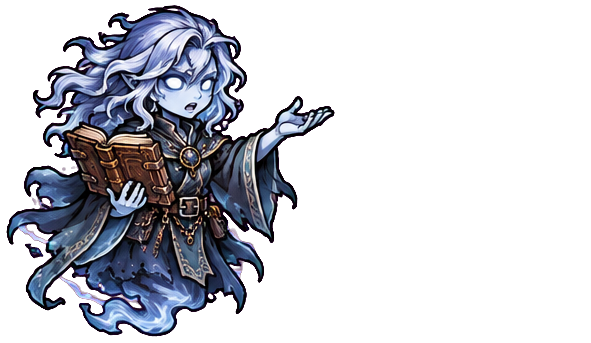
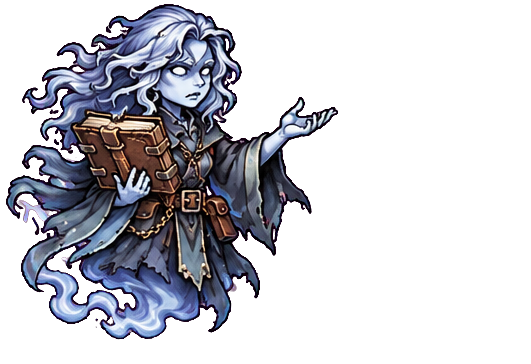
v0.7.1.0776 광산 NPC 그림을 광부 비율로 교체 · NPC별 키 조정
Claude-Session: https://claude.ai/code/session_01AwLthSKStJ6TZafJZN1U3z

diff --git a/CLAUDE.md b/CLAUDE.md
@@ -1,5 +1,5 @@
 # 개발 규칙
 - 게임 밸런스/수치(확률, 데미지, 비용, 쿨타임, 드랍 등)를 바꿀 때마다 `patchnotes.txt` 맨 위에 해당 버전 항목을 추가하고 바뀐 수치를 간략히 적는다. 표기는 "변경: 120% → 90%", "상향: 3 → 5", "하향: …", "수정: …", "추가: …"처럼 쓴다("이전 → 이후:" 문구는 쓰지 않는다. 필요하면 "이전: A → 이후: B" 형태는 가능). (인게임 메뉴·설정·시작화면 버전 글자에서 이 파일을 보여줌)
-- 버전은 `0.7.1.NNNN` (빌드 번호 = 커밋 수 − 70, 0.4.0.0124 다음부터 0.4.1.0125 → 0.4.2.0128 → 0.4.2.0129 → 0.4.2.0130 → 0.4.2.0131 → 0.4.2.0132 → 0.4.2.0133 → 0.4.2.0134 → 0.4.2.0135 → 0.4.2.0136 → 0.4.2.0137 → 0.4.2.0138 → 0.4.2.0139 → 0.4.2.0140 → 0.4.2.0141 → 0.4.2.0142 → 0.4.2.0143 → 0.4.2.0144 → 0.4.2.0145 → 0.4.2.0146 → 0.4.2.0147 → 0.4.2.0148 → 0.4.2.0149 → 0.4.3.0150 → 0.4.3.0151 → 0.4.3.0152 → 0.4.3.0153 → 0.4.3.0154 → 0.4.3.0155 → 0.4.3.0156 → 0.4.3.0157 → 0.4.3.0158 → 0.4.3.0159 → 0.4.3.0160 → 0.4.3.0161 → 0.4.3.0162 → 0.4.3.0163 → 0.4.3.0164 → 0.4.3.0165 → 0.4.3.0166 → 0.4.3.0167 → 0.4.4.0168 → 0.4.4.0169 → 0.4.4.0170 → 0.4.4.0171 → 0.4.4.0172 → 0.4.4.0173 → 0.4.5.0174 → 0.4.5.0175 → 0.4.5.0176 → 0.4.5.0177 → 0.4.5.0178 → 0.4.5.0179 → 0.4.5.0180 → 0.4.6.0181 → 0.4.6.0182 → 0.4.6.0183 → 0.4.6.0184 → 0.4.6.0185 → 0.4.6.0186 → 0.4.6.0187 → 0.4.6.0188 → 0.4.6.0189 → 0.4.6.0190 → 0.4.6.0191 → 0.4.6.0192 → 0.4.6.0193 → 0.4.6.0194 → 0.4.6.0195 → 0.4.6.0196 → 0.4.7.0197 → 0.4.7.0198 → 0.4.7.0199 → 0.4.7.0200 → 0.4.7.0201 → 0.4.7.0202 → 0.4.7.0203 → 0.4.7.0204 → 0.4.7.0205 → 0.4.7.0206 → 0.4.7.0207 → 0.4.7.0208 → 0.5.0.0209 → 0.5.0.0210 → 0.5.0.0211 → 0.5.0.0212 → 0.5.0.0213 → 0.5.0.0214 → 0.5.0.0215 → 0.5.0.0216 → 0.5.0.0217 → 0.5.0.0218 → 0.5.0.0219 → 0.5.0.0220 → 0.5.0.0221 → 0.5.0.0222 → 0.5.0.0223 → 0.5.0.0224 → 0.5.0.0225 → 0.5.0.0226 → 0.5.0.0227 → 0.5.0.0228 → 0.5.0.0229 → 0.5.0.0230 → 0.5.0.0231 → 0.5.0.0232 → 0.5.0.0233 → 0.5.0.0234 → 0.5.0.0235 → 0.5.0.0236 → 0.5.0.0237 → 0.5.0.0238 → 0.5.0.0239 → 0.5.0.0240 → 0.5.0.0241 → 0.6.0.0241 → 0.6.0.0242 → 0.6.0.0243 → 0.6.0.0244 → 0.6.0.0245 → 0.6.0.0246 → 0.6.0.0247 → 0.6.0.0248 → 0.6.0.0249 → 0.6.0.0250 → 0.6.0.0251 → 0.6.0.0252 → 0.6.0.0253 → 0.6.0.0254 → 0.6.0.0255 → 0.6.0.0256 → 0.6.0.0257 → 0.6.0.0258 → 0.6.0.0259 → 0.6.0.0260 → 0.6.0.0261 → 0.6.0.0262 → 0.6.0.0263 → 0.6.0.0264 → 0.6.0.0265 → 0.6.0.0266 → 0.6.0.0267 → 0.6.0.0268 → 0.6.0.0269 → 0.6.0.0270 → 0.6.0.0271 → 0.6.0.0272 → 0.6.0.0273 → 0.6.0.0274 → 0.6.0.0275 → 0.6.0.0276 → 0.6.0.0277 → 0.6.0.0278 → 0.6.0.0279 → 0.6.0.0280 → 0.6.0.0281 → 0.6.0.0282 → 0.6.0.0283 → 0.6.0.0284 → 0.6.0.0285 → 0.6.0.0286 → 0.6.0.0287 → 0.6.0.0288 → 0.6.0.0289 → 0.6.0.0290 → 0.6.0.0291 → 0.6.0.0292 → 0.6.0.0293 → 0.6.0.0294 → 0.6.0.0295 → 0.6.0.0296 → 0.6.0.0297 → 0.6.0.0298 → 0.6.0.0299 → 0.6.0.0300 → 0.6.0.0301 → 0.6.0.0302 → 0.6.0.0303 → 0.6.0.0304 → 0.6.0.0305 → 0.6.0.0306 → 0.6.0.0307 → 0.6.0.0308 → 0.6.0.0309 → 0.6.0.0310 → 0.6.0.0311 → 0.6.0.0312 → 0.6.0.0313 → 0.6.0.0314 → 0.6.0.0315 → 0.6.0.0316 → 0.6.0.0317 → 0.6.0.0318 → 0.6.0.0319 → 0.6.0.0320 → 0.6.0.0321 → 0.6.0.0322 → 0.6.0.0323 → 0.6.0.0324 → 0.6.0.0325 → 0.6.0.0326 → 0.6.0.0327 → 0.6.0.0328 → 0.6.0.0329 → 0.6.0.0330 → 0.6.0.0331 → 0.6.0.0332 → 0.6.0.0333 → 0.6.0.0334 → 0.6.0.0335 → 0.6.0.0336 → 0.6.0.0337 → 0.6.0.0338 → 0.6.0.0339 → 0.6.0.0340 → 0.6.1.0341 → 0.6.1.0342 → 0.6.1.0343 → 0.6.1.0344 → 0.6.1.0345 → 0.6.1.0346 → 0.6.1.0347 → 0.6.1.0348 → 0.6.1.0349 → 0.6.1.0350 → 0.6.1.0351 → 0.6.1.0352 → 0.6.1.0353 → 0.6.1.0354 → 0.6.1.0355 → 0.6.1.0356 → 0.6.1.0357 → 0.6.1.0358 → 0.6.1.0359 → 0.6.1.0360 → 0.6.1.0361 → 0.6.1.0362 → 0.6.1.0363 → 0.6.1.0364 → 0.6.1.0365 → 0.6.1.0366 → 0.6.1.0367 → 0.6.1.0368 → 0.6.1.0369 → 0.6.1.0370 → 0.6.1.0371 → 0.6.1.0372 → 0.6.1.0373 → 0.6.1.0374 → 0.6.1.0375 → 0.6.1.0376 → 0.6.1.0377 → 0.6.1.0378 → 0.6.1.0379 → 0.6.1.0380 → 0.6.1.0381 → 0.6.1.0382 → 0.6.1.0383 → 0.6.1.0384 → 0.6.1.0385 → 0.6.1.0386 → 0.6.1.0387 → 0.6.1.0388 → 0.6.1.0389 → 0.6.2.0390 → 0.6.2.0391 → 0.6.2.0392 → 0.6.2.0393 → 0.6.2.0394 → 0.6.2.0395 → 0.6.2.0396 → 0.6.2.0397 → 0.6.2.0398 → 0.6.2.0399 → 0.6.2.0400 → 0.6.2.0401 → 0.6.2.0402 → 0.6.2.0403 → 0.6.2.0404 → 0.6.2.0405 → 0.6.2.0406 → 0.6.2.0407 → 0.6.2.0408 → 0.6.2.0409 → 0.6.2.0410 → 0.6.2.0411 → 0.6.2.0412 → 0.6.2.0413 → 0.6.2.0414 → 0.6.2.0415 → 0.6.2.0416 → 0.6.2.0417 → 0.6.2.0418 → 0.6.3.0419 → 0.6.3.0420 → 0.6.3.0421 → 0.6.3.0422 → 0.6.3.0423 → 0.6.3.0424 → 0.6.3.0425 → 0.6.3.0426 → 0.6.3.0427 → 0.6.3.0428 → 0.6.3.0429 → 0.6.3.0430 → 0.6.3.0431 → 0.6.3.0432 → 0.6.3.0433 → 0.6.3.0434 → 0.6.3.0435 → 0.6.3.0436 → 0.6.3.0437 → 0.6.3.0438 → 0.6.3.0439 → 0.6.3.0440 → 0.6.3.0441 → 0.6.3.0442 → 0.6.3.0443 → 0.6.3.0444 → 0.6.3.0445 → 0.6.3.0446 → 0.6.3.0447 → 0.6.3.0448 → 0.6.3.0449 → 0.6.3.0450 → 0.6.3.0451 → 0.6.3.0452 → 0.6.3.0453 → 0.6.3.0454 → 0.6.3.0455 → 0.6.3.0456 → 0.6.3.0457 → 0.6.3.0458 → 0.6.3.0459 → 0.6.4.0460 → 0.6.4.0461 → 0.6.4.0462 → 0.6.4.0463 → 0.6.4.0464 → 0.6.4.0465 → 0.6.4.0466 → 0.6.4.0467 → 0.6.4.0468 → 0.6.4.0469 → 0.6.4.0470 → 0.6.4.0471 → 0.6.4.0472 → 0.6.4.0473 → 0.6.4.0474 → 0.6.4.0475 → 0.6.4.0476 → 0.6.4.0477 → 0.6.4.0478 → 0.6.4.0479 → 0.6.4.0480 → 0.6.4.0481 → 0.6.4.0482 → 0.6.4.0483 → 0.6.4.0484 → 0.6.4.0485 → 0.6.4.0486 → 0.6.4.0487 → 0.6.4.0488 → 0.6.4.0489 → 0.6.4.0490 → 0.6.4.0491 → 0.6.4.0492 → 0.6.4.0493 → 0.6.4.0494 → 0.6.4.0495 → 0.6.4.0496 → 0.6.4.0497 → 0.6.4.0498 → 0.6.4.0499 → 0.6.4.0500 → 0.6.4.0501 → 0.6.4.0502 → 0.6.4.0503 → 0.6.4.0504 → 0.6.4.0505 → 0.6.5.0506 → 0.6.5.0507 → 0.6.5.0508 → 0.6.5.0509 → 0.6.5.0510 → 0.6.5.0511 → 0.6.5.0512 → 0.6.5.0513 → 0.6.5.0514 → 0.6.5.0515 → 0.6.5.0516 → 0.6.5.0517 → 0.6.5.0518 → 0.6.5.0519 → 0.6.5.0520 → 0.6.5.0521 → 0.6.5.0522 → 0.6.5.0523 → 0.6.5.0524 → 0.6.5.0525 → 0.6.5.0526 → 0.6.5.0527 → 0.6.5.0528 → 0.6.5.0529 → 0.6.5.0530 → 0.6.5.0531 → 0.6.5.0532 → 0.6.5.0533 → 0.6.5.0534 → 0.6.5.0535 → 0.6.5.0536 → 0.6.5.0537 → 0.6.5.0538 → 0.6.5.0539 → 0.6.5.0540 → 0.6.5.0541 → 0.6.5.0542 → 0.6.5.0543 → 0.6.5.0544 → 0.6.5.0545 → 0.6.5.0546 → 0.6.5.0547 → 0.6.5.0548 → 0.6.5.0549 → 0.6.5.0550 → 0.6.5.0551 → 0.6.5.0552 → 0.6.5.0553 → 0.6.5.0554 → 0.6.5.0555 → 0.6.5.0556 → 0.6.5.0557 → 0.6.5.0558 → 0.6.5.0559 → 0.6.5.0560 → 0.6.5.0561 → 0.6.5.0562 → 0.6.5.0563 → 0.6.5.0564 → 0.6.5.0565 → 0.6.5.0566 → 0.6.5.0567 → 0.6.5.0568 → 0.6.5.0569 → 0.6.5.0570 → 0.6.5.0571 → 0.6.5.0572 → 0.6.5.0573 → 0.6.5.0574 → 0.6.5.0575 → 0.6.5.0576 → 0.6.5.0577 → 0.6.5.0578 → 0.6.5.0579 → 0.6.5.0580 → 0.6.5.0581 → 0.6.5.0582 → 0.6.5.0583 → 0.6.5.0584 → 0.6.5.0585 → 0.6.5.0586 → 0.6.5.0587 → 0.6.5.0588 → 0.6.5.0589 → 0.6.5.0590 → 0.6.5.0591 → 0.6.5.0592 → 0.6.5.0593 → 0.6.5.0594 → 0.6.5.0595 → 0.6.5.0596 → 0.6.5.0597 → 0.6.5.0598 → 0.6.5.0599 → 0.6.5.0600 → 0.6.5.0601 → 0.6.5.0602 → 0.6.5.0603 → 0.6.5.0604 → 0.6.5.0605 → 0.6.5.0606 → 0.6.5.0607 → 0.6.5.0608 → 0.6.5.0609 → 0.6.5.0610 → 0.6.5.0611 → 0.6.5.0612 → 0.6.5.0613 → 0.6.5.0614 → 0.6.5.0615 → 0.6.5.0616 → 0.6.5.0617 → 0.6.5.0618 → 0.6.5.0619 → 0.6.5.0620 → 0.6.5.0621 → 0.6.5.0622 → 0.6.5.0623 → 0.6.5.0624 → 0.6.5.0625 → 0.6.5.0626 → 0.6.5.0627 → 0.6.5.0628 → 0.6.5.0629 → 0.6.5.0630 → 0.6.5.0631 → 0.6.5.0632 → 0.6.5.0633 → 0.6.5.0634 → 0.6.5.0635 → 0.6.5.0636 → 0.6.5.0637 → 0.6.5.0638 → 0.6.5.0639 → 0.6.5.0640 → 0.6.5.0641 → 0.6.5.0642 → 0.6.5.0643 → 0.6.5.0644 → 0.6.5.0645 → 0.6.5.0646 → 0.6.5.0647 → 0.6.5.0648 → 0.6.5.0649 → 0.6.5.0650 → 0.6.5.0651 → 0.6.5.0652 → 0.6.5.0653 → 0.6.5.0654 → 0.6.5.0655 → 0.6.5.0656 → 0.6.5.0657 → 0.6.5.0658 → 0.6.5.0659 → 0.6.5.0660 → 0.6.5.0661 → 0.6.5.0662 → 0.6.5.0663 → 0.6.5.0664 → 0.7.1.0665 → 0.7.1.0666 → 0.7.1.0667 → 0.7.1.0668 → 0.7.1.0669 → 0.7.1.0670 → 0.7.1.0671 → 0.7.1.0672 → 0.7.1.0673 → 0.7.1.0674 → 0.7.1.0675 → 0.7.1.0676 → 0.7.1.0677 → 0.7.1.0678 → 0.7.1.0679 → 0.7.1.0680 → 0.7.1.0681 → 0.7.1.0682 → 0.7.1.0683 → 0.7.1.0684 → 0.7.1.0685 → 0.7.1.0686 → 0.7.1.0687 → 0.7.1.0688 → 0.7.1.0689 → 0.7.1.0690 → 0.7.1.0691 → 0.7.1.0692 → 0.7.1.0693 → 0.7.1.0694 → 0.7.1.0695 → 0.7.1.0696 → 0.7.1.0697 → 0.7.1.0698 → 0.7.1.0699 → 0.7.1.0700 → 0.7.1.0701 → 0.7.1.0702 → 0.7.1.0703 → 0.7.1.0704 → 0.7.1.0705 → 0.7.1.0706 → 0.7.1.0707 → 0.7.1.0708 → 0.7.1.0709 → 0.7.1.0710 → 0.7.1.0711 → 0.7.1.0712 → 0.7.1.0713 → 0.7.1.0714 → 0.7.1.0715 → 0.7.1.0716 → 0.7.1.0717 → 0.7.1.0718 → 0.7.1.0719 → 0.7.1.0720 → 0.7.1.0721 → 0.7.1.0722 → 0.7.1.0723 → 0.7.1.0724 → 0.7.1.0725 → 0.7.1.0726 → 0.7.1.0727 → 0.7.1.0728 → 0.7.1.0729 → 0.7.1.0730 → 0.7.1.0731 → 0.7.1.0732 → 0.7.1.0733 → 0.7.1.0734 → 0.7.1.0735 → 0.7.1.0736 → 0.7.1.0737 → 0.7.1.0738 → 0.7.1.0739 → 0.7.1.0740 → 0.7.1.0741 → 0.7.1.0742 → 0.7.1.0743 → 0.7.1.0744 → 0.7.1.0745 → 0.7.1.0746 → 0.7.1.0747 → 0.7.1.0748 → 0.7.1.0749 → 0.7.1.0750 → 0.7.1.0751 → 0.7.1.0752 → 0.7.1.0753 → 0.7.1.0754 → 0.7.1.0755 → 0.7.1.0756 → 0.7.1.0757 → 0.7.1.0758 → 0.7.1.0759 → 0.7.1.0760 → 0.7.1.0761 → 0.7.1.0762 → 0.7.1.0763 → 0.7.1.0764 → 0.7.1.0767 → 0.7.1.0768 → 0.7.1.0769 → 0.7.1.0770 → 0.7.1.0771 → 0.7.1.0772 → 0.7.1.0773 → 0.7.1.0774 → 0.7.1.0775로 이어서 증가). 커밋 때 patchnotes.txt의 버전 번호도 맞춘다.
+- 버전은 `0.7.1.NNNN` (빌드 번호 = 커밋 수 − 70, 0.4.0.0124 다음부터 0.4.1.0125 → 0.4.2.0128 → 0.4.2.0129 → 0.4.2.0130 → 0.4.2.0131 → 0.4.2.0132 → 0.4.2.0133 → 0.4.2.0134 → 0.4.2.0135 → 0.4.2.0136 → 0.4.2.0137 → 0.4.2.0138 → 0.4.2.0139 → 0.4.2.0140 → 0.4.2.0141 → 0.4.2.0142 → 0.4.2.0143 → 0.4.2.0144 → 0.4.2.0145 → 0.4.2.0146 → 0.4.2.0147 → 0.4.2.0148 → 0.4.2.0149 → 0.4.3.0150 → 0.4.3.0151 → 0.4.3.0152 → 0.4.3.0153 → 0.4.3.0154 → 0.4.3.0155 → 0.4.3.0156 → 0.4.3.0157 → 0.4.3.0158 → 0.4.3.0159 → 0.4.3.0160 → 0.4.3.0161 → 0.4.3.0162 → 0.4.3.0163 → 0.4.3.0164 → 0.4.3.0165 → 0.4.3.0166 → 0.4.3.0167 → 0.4.4.0168 → 0.4.4.0169 → 0.4.4.0170 → 0.4.4.0171 → 0.4.4.0172 → 0.4.4.0173 → 0.4.5.0174 → 0.4.5.0175 → 0.4.5.0176 → 0.4.5.0177 → 0.4.5.0178 → 0.4.5.0179 → 0.4.5.0180 → 0.4.6.0181 → 0.4.6.0182 → 0.4.6.0183 → 0.4.6.0184 → 0.4.6.0185 → 0.4.6.0186 → 0.4.6.0187 → 0.4.6.0188 → 0.4.6.0189 → 0.4.6.0190 → 0.4.6.0191 → 0.4.6.0192 → 0.4.6.0193 → 0.4.6.0194 → 0.4.6.0195 → 0.4.6.0196 → 0.4.7.0197 → 0.4.7.0198 → 0.4.7.0199 → 0.4.7.0200 → 0.4.7.0201 → 0.4.7.0202 → 0.4.7.0203 → 0.4.7.0204 → 0.4.7.0205 → 0.4.7.0206 → 0.4.7.0207 → 0.4.7.0208 → 0.5.0.0209 → 0.5.0.0210 → 0.5.0.0211 → 0.5.0.0212 → 0.5.0.0213 → 0.5.0.0214 → 0.5.0.0215 → 0.5.0.0216 → 0.5.0.0217 → 0.5.0.0218 → 0.5.0.0219 → 0.5.0.0220 → 0.5.0.0221 → 0.5.0.0222 → 0.5.0.0223 → 0.5.0.0224 → 0.5.0.0225 → 0.5.0.0226 → 0.5.0.0227 → 0.5.0.0228 → 0.5.0.0229 → 0.5.0.0230 → 0.5.0.0231 → 0.5.0.0232 → 0.5.0.0233 → 0.5.0.0234 → 0.5.0.0235 → 0.5.0.0236 → 0.5.0.0237 → 0.5.0.0238 → 0.5.0.0239 → 0.5.0.0240 → 0.5.0.0241 → 0.6.0.0241 → 0.6.0.0242 → 0.6.0.0243 → 0.6.0.0244 → 0.6.0.0245 → 0.6.0.0246 → 0.6.0.0247 → 0.6.0.0248 → 0.6.0.0249 → 0.6.0.0250 → 0.6.0.0251 → 0.6.0.0252 → 0.6.0.0253 → 0.6.0.0254 → 0.6.0.0255 → 0.6.0.0256 → 0.6.0.0257 → 0.6.0.0258 → 0.6.0.0259 → 0.6.0.0260 → 0.6.0.0261 → 0.6.0.0262 → 0.6.0.0263 → 0.6.0.0264 → 0.6.0.0265 → 0.6.0.0266 → 0.6.0.0267 → 0.6.0.0268 → 0.6.0.0269 → 0.6.0.0270 → 0.6.0.0271 → 0.6.0.0272 → 0.6.0.0273 → 0.6.0.0274 → 0.6.0.0275 → 0.6.0.0276 → 0.6.0.0277 → 0.6.0.0278 → 0.6.0.0279 → 0.6.0.0280 → 0.6.0.0281 → 0.6.0.0282 → 0.6.0.0283 → 0.6.0.0284 → 0.6.0.0285 → 0.6.0.0286 → 0.6.0.0287 → 0.6.0.0288 → 0.6.0.0289 → 0.6.0.0290 → 0.6.0.0291 → 0.6.0.0292 → 0.6.0.0293 → 0.6.0.0294 → 0.6.0.0295 → 0.6.0.0296 → 0.6.0.0297 → 0.6.0.0298 → 0.6.0.0299 → 0.6.0.0300 → 0.6.0.0301 → 0.6.0.0302 → 0.6.0.0303 → 0.6.0.0304 → 0.6.0.0305 → 0.6.0.0306 → 0.6.0.0307 → 0.6.0.0308 → 0.6.0.0309 → 0.6.0.0310 → 0.6.0.0311 → 0.6.0.0312 → 0.6.0.0313 → 0.6.0.0314 → 0.6.0.0315 → 0.6.0.0316 → 0.6.0.0317 → 0.6.0.0318 → 0.6.0.0319 → 0.6.0.0320 → 0.6.0.0321 → 0.6.0.0322 → 0.6.0.0323 → 0.6.0.0324 → 0.6.0.0325 → 0.6.0.0326 → 0.6.0.0327 → 0.6.0.0328 → 0.6.0.0329 → 0.6.0.0330 → 0.6.0.0331 → 0.6.0.0332 → 0.6.0.0333 → 0.6.0.0334 → 0.6.0.0335 → 0.6.0.0336 → 0.6.0.0337 → 0.6.0.0338 → 0.6.0.0339 → 0.6.0.0340 → 0.6.1.0341 → 0.6.1.0342 → 0.6.1.0343 → 0.6.1.0344 → 0.6.1.0345 → 0.6.1.0346 → 0.6.1.0347 → 0.6.1.0348 → 0.6.1.0349 → 0.6.1.0350 → 0.6.1.0351 → 0.6.1.0352 → 0.6.1.0353 → 0.6.1.0354 → 0.6.1.0355 → 0.6.1.0356 → 0.6.1.0357 → 0.6.1.0358 → 0.6.1.0359 → 0.6.1.0360 → 0.6.1.0361 → 0.6.1.0362 → 0.6.1.0363 → 0.6.1.0364 → 0.6.1.0365 → 0.6.1.0366 → 0.6.1.0367 → 0.6.1.0368 → 0.6.1.0369 → 0.6.1.0370 → 0.6.1.0371 → 0.6.1.0372 → 0.6.1.0373 → 0.6.1.0374 → 0.6.1.0375 → 0.6.1.0376 → 0.6.1.0377 → 0.6.1.0378 → 0.6.1.0379 → 0.6.1.0380 → 0.6.1.0381 → 0.6.1.0382 → 0.6.1.0383 → 0.6.1.0384 → 0.6.1.0385 → 0.6.1.0386 → 0.6.1.0387 → 0.6.1.0388 → 0.6.1.0389 → 0.6.2.0390 → 0.6.2.0391 → 0.6.2.0392 → 0.6.2.0393 → 0.6.2.0394 → 0.6.2.0395 → 0.6.2.0396 → 0.6.2.0397 → 0.6.2.0398 → 0.6.2.0399 → 0.6.2.0400 → 0.6.2.0401 → 0.6.2.0402 → 0.6.2.0403 → 0.6.2.0404 → 0.6.2.0405 → 0.6.2.0406 → 0.6.2.0407 → 0.6.2.0408 → 0.6.2.0409 → 0.6.2.0410 → 0.6.2.0411 → 0.6.2.0412 → 0.6.2.0413 → 0.6.2.0414 → 0.6.2.0415 → 0.6.2.0416 → 0.6.2.0417 → 0.6.2.0418 → 0.6.3.0419 → 0.6.3.0420 → 0.6.3.0421 → 0.6.3.0422 → 0.6.3.0423 → 0.6.3.0424 → 0.6.3.0425 → 0.6.3.0426 → 0.6.3.0427 → 0.6.3.0428 → 0.6.3.0429 → 0.6.3.0430 → 0.6.3.0431 → 0.6.3.0432 → 0.6.3.0433 → 0.6.3.0434 → 0.6.3.0435 → 0.6.3.0436 → 0.6.3.0437 → 0.6.3.0438 → 0.6.3.0439 → 0.6.3.0440 → 0.6.3.0441 → 0.6.3.0442 → 0.6.3.0443 → 0.6.3.0444 → 0.6.3.0445 → 0.6.3.0446 → 0.6.3.0447 → 0.6.3.0448 → 0.6.3.0449 → 0.6.3.0450 → 0.6.3.0451 → 0.6.3.0452 → 0.6.3.0453 → 0.6.3.0454 → 0.6.3.0455 → 0.6.3.0456 → 0.6.3.0457 → 0.6.3.0458 → 0.6.3.0459 → 0.6.4.0460 → 0.6.4.0461 → 0.6.4.0462 → 0.6.4.0463 → 0.6.4.0464 → 0.6.4.0465 → 0.6.4.0466 → 0.6.4.0467 → 0.6.4.0468 → 0.6.4.0469 → 0.6.4.0470 → 0.6.4.0471 → 0.6.4.0472 → 0.6.4.0473 → 0.6.4.0474 → 0.6.4.0475 → 0.6.4.0476 → 0.6.4.0477 → 0.6.4.0478 → 0.6.4.0479 → 0.6.4.0480 → 0.6.4.0481 → 0.6.4.0482 → 0.6.4.0483 → 0.6.4.0484 → 0.6.4.0485 → 0.6.4.0486 → 0.6.4.0487 → 0.6.4.0488 → 0.6.4.0489 → 0.6.4.0490 → 0.6.4.0491 → 0.6.4.0492 → 0.6.4.0493 → 0.6.4.0494 → 0.6.4.0495 → 0.6.4.0496 → 0.6.4.0497 → 0.6.4.0498 → 0.6.4.0499 → 0.6.4.0500 → 0.6.4.0501 → 0.6.4.0502 → 0.6.4.0503 → 0.6.4.0504 → 0.6.4.0505 → 0.6.5.0506 → 0.6.5.0507 → 0.6.5.0508 → 0.6.5.0509 → 0.6.5.0510 → 0.6.5.0511 → 0.6.5.0512 → 0.6.5.0513 → 0.6.5.0514 → 0.6.5.0515 → 0.6.5.0516 → 0.6.5.0517 → 0.6.5.0518 → 0.6.5.0519 → 0.6.5.0520 → 0.6.5.0521 → 0.6.5.0522 → 0.6.5.0523 → 0.6.5.0524 → 0.6.5.0525 → 0.6.5.0526 → 0.6.5.0527 → 0.6.5.0528 → 0.6.5.0529 → 0.6.5.0530 → 0.6.5.0531 → 0.6.5.0532 → 0.6.5.0533 → 0.6.5.0534 → 0.6.5.0535 → 0.6.5.0536 → 0.6.5.0537 → 0.6.5.0538 → 0.6.5.0539 → 0.6.5.0540 → 0.6.5.0541 → 0.6.5.0542 → 0.6.5.0543 → 0.6.5.0544 → 0.6.5.0545 → 0.6.5.0546 → 0.6.5.0547 → 0.6.5.0548 → 0.6.5.0549 → 0.6.5.0550 → 0.6.5.0551 → 0.6.5.0552 → 0.6.5.0553 → 0.6.5.0554 → 0.6.5.0555 → 0.6.5.0556 → 0.6.5.0557 → 0.6.5.0558 → 0.6.5.0559 → 0.6.5.0560 → 0.6.5.0561 → 0.6.5.0562 → 0.6.5.0563 → 0.6.5.0564 → 0.6.5.0565 → 0.6.5.0566 → 0.6.5.0567 → 0.6.5.0568 → 0.6.5.0569 → 0.6.5.0570 → 0.6.5.0571 → 0.6.5.0572 → 0.6.5.0573 → 0.6.5.0574 → 0.6.5.0575 → 0.6.5.0576 → 0.6.5.0577 → 0.6.5.0578 → 0.6.5.0579 → 0.6.5.0580 → 0.6.5.0581 → 0.6.5.0582 → 0.6.5.0583 → 0.6.5.0584 → 0.6.5.0585 → 0.6.5.0586 → 0.6.5.0587 → 0.6.5.0588 → 0.6.5.0589 → 0.6.5.0590 → 0.6.5.0591 → 0.6.5.0592 → 0.6.5.0593 → 0.6.5.0594 → 0.6.5.0595 → 0.6.5.0596 → 0.6.5.0597 → 0.6.5.0598 → 0.6.5.0599 → 0.6.5.0600 → 0.6.5.0601 → 0.6.5.0602 → 0.6.5.0603 → 0.6.5.0604 → 0.6.5.0605 → 0.6.5.0606 → 0.6.5.0607 → 0.6.5.0608 → 0.6.5.0609 → 0.6.5.0610 → 0.6.5.0611 → 0.6.5.0612 → 0.6.5.0613 → 0.6.5.0614 → 0.6.5.0615 → 0.6.5.0616 → 0.6.5.0617 → 0.6.5.0618 → 0.6.5.0619 → 0.6.5.0620 → 0.6.5.0621 → 0.6.5.0622 → 0.6.5.0623 → 0.6.5.0624 → 0.6.5.0625 → 0.6.5.0626 → 0.6.5.0627 → 0.6.5.0628 → 0.6.5.0629 → 0.6.5.0630 → 0.6.5.0631 → 0.6.5.0632 → 0.6.5.0633 → 0.6.5.0634 → 0.6.5.0635 → 0.6.5.0636 → 0.6.5.0637 → 0.6.5.0638 → 0.6.5.0639 → 0.6.5.0640 → 0.6.5.0641 → 0.6.5.0642 → 0.6.5.0643 → 0.6.5.0644 → 0.6.5.0645 → 0.6.5.0646 → 0.6.5.0647 → 0.6.5.0648 → 0.6.5.0649 → 0.6.5.0650 → 0.6.5.0651 → 0.6.5.0652 → 0.6.5.0653 → 0.6.5.0654 → 0.6.5.0655 → 0.6.5.0656 → 0.6.5.0657 → 0.6.5.0658 → 0.6.5.0659 → 0.6.5.0660 → 0.6.5.0661 → 0.6.5.0662 → 0.6.5.0663 → 0.6.5.0664 → 0.7.1.0665 → 0.7.1.0666 → 0.7.1.0667 → 0.7.1.0668 → 0.7.1.0669 → 0.7.1.0670 → 0.7.1.0671 → 0.7.1.0672 → 0.7.1.0673 → 0.7.1.0674 → 0.7.1.0675 → 0.7.1.0676 → 0.7.1.0677 → 0.7.1.0678 → 0.7.1.0679 → 0.7.1.0680 → 0.7.1.0681 → 0.7.1.0682 → 0.7.1.0683 → 0.7.1.0684 → 0.7.1.0685 → 0.7.1.0686 → 0.7.1.0687 → 0.7.1.0688 → 0.7.1.0689 → 0.7.1.0690 → 0.7.1.0691 → 0.7.1.0692 → 0.7.1.0693 → 0.7.1.0694 → 0.7.1.0695 → 0.7.1.0696 → 0.7.1.0697 → 0.7.1.0698 → 0.7.1.0699 → 0.7.1.0700 → 0.7.1.0701 → 0.7.1.0702 → 0.7.1.0703 → 0.7.1.0704 → 0.7.1.0705 → 0.7.1.0706 → 0.7.1.0707 → 0.7.1.0708 → 0.7.1.0709 → 0.7.1.0710 → 0.7.1.0711 → 0.7.1.0712 → 0.7.1.0713 → 0.7.1.0714 → 0.7.1.0715 → 0.7.1.0716 → 0.7.1.0717 → 0.7.1.0718 → 0.7.1.0719 → 0.7.1.0720 → 0.7.1.0721 → 0.7.1.0722 → 0.7.1.0723 → 0.7.1.0724 → 0.7.1.0725 → 0.7.1.0726 → 0.7.1.0727 → 0.7.1.0728 → 0.7.1.0729 → 0.7.1.0730 → 0.7.1.0731 → 0.7.1.0732 → 0.7.1.0733 → 0.7.1.0734 → 0.7.1.0735 → 0.7.1.0736 → 0.7.1.0737 → 0.7.1.0738 → 0.7.1.0739 → 0.7.1.0740 → 0.7.1.0741 → 0.7.1.0742 → 0.7.1.0743 → 0.7.1.0744 → 0.7.1.0745 → 0.7.1.0746 → 0.7.1.0747 → 0.7.1.0748 → 0.7.1.0749 → 0.7.1.0750 → 0.7.1.0751 → 0.7.1.0752 → 0.7.1.0753 → 0.7.1.0754 → 0.7.1.0755 → 0.7.1.0756 → 0.7.1.0757 → 0.7.1.0758 → 0.7.1.0759 → 0.7.1.0760 → 0.7.1.0761 → 0.7.1.0762 → 0.7.1.0763 → 0.7.1.0764 → 0.7.1.0767 → 0.7.1.0768 → 0.7.1.0769 → 0.7.1.0770 → 0.7.1.0771 → 0.7.1.0772 → 0.7.1.0773 → 0.7.1.0774 → 0.7.1.0775 → 0.7.1.0776로 이어서 증가). 커밋 때 patchnotes.txt의 버전 번호도 맞춘다.
 - 공지사항은 `notice.txt` 맨 위에 새 항목을 추가한다(구분선 `==============================` 한 줄 + 제목 줄 + ` - 내용` 줄들). 화면에는 최근 3건만 보인다. 사용자가 공지 추가를 요청할 때만 쓴다.
 - 관리자 관련 추가·수정, 치트키, 미공개(요청·스테이지·캐릭터 등) 내용은 `patchnotes.txt`가 아니라 `adminnotes.txt`(관리자 노트, 연구실에서 열람) 맨 위에 같은 머리글 형식(`==============================` + `v버전  (월/일)  제목` + `==============================` + `■ 분류` + `  - 추가:/변경:/수정: …`)으로 기록한다. 한 번의 요청에 일반 패치 내용과 관리자 내용이 섞여 있으면 나눠서 각각 기록하고, 패치노트에는 큰 관리자 기능을 새로 추가했을 때만 `■ 기타 - 추가: 연구실 기능이 추가되었습니다.`처럼 한 줄로 적고, 관리자 관련 수정·보완은 패치노트에 적지 않고 adminnotes.txt에만 기록한다. 관리자 비밀번호는 노트·패치노트·커밋 메시지 어디에도 쓰지 않고 `****`로 표시한다.
